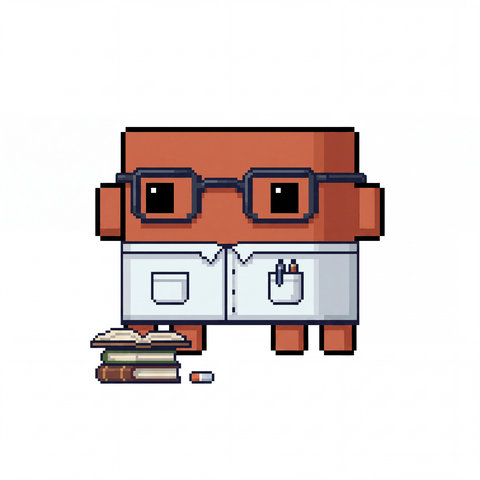
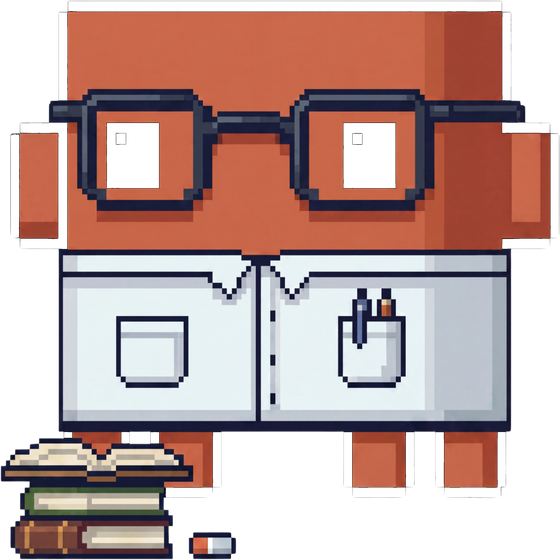
Replace mascot with transparent-bg version, larger size
- Remove black background from new mascot PNG via pixel mask
- Resize to 560x560 (300px display, 2x retina)
- Increase hero visual from 240px to 300px (220px on tablet)

diff --git a/docs/index.html b/docs/index.html
@@ -258,17 +258,22 @@
     /* Hero visual */
     .hero-visual {
       position: relative;
-      width: 240px;
-      height: 240px;
+      width: 300px;
+      height: 300px;
       flex-shrink: 0;
     }
 
     .hero-mascot {
-      width: 240px;
-      height: 240px;
+      width: 300px;
+      height: 300px;
       object-fit: contain;
       image-rendering: pixelated;
-      filter: drop-shadow(0 8px 24px rgba(217,119,87,0.18));
+      filter: drop-shadow(0 12px 32px rgba(217,119,87,0.2));
+    }
+
+    @media (max-width: 900px) {
+      .hero-mascot { width: 220px; height: 220px; }
+      .hero-visual { width: 220px; height: 220px; }
     }
 
     /* Stats bar */
